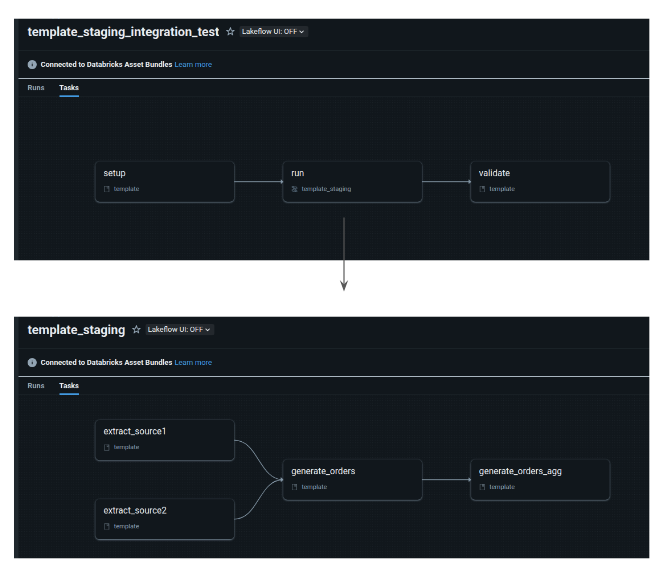
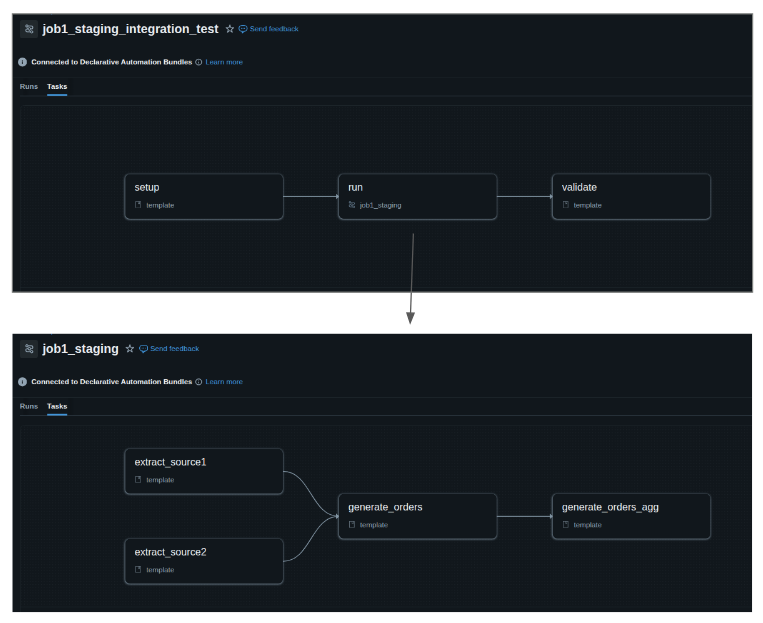
service principal grants and docs

diff --git a/README.md b/README.md
@@ -90,25 +90,28 @@ databricks-template/
 │       ├── config.py              # Configuration management
 │       ├── baseTask.py            # Base class for all tasks
 │       ├── commonSchemas.py       # Shared PySpark schemas
-│       └── job1/                  # Job-specific tasks
-│           ├── extract_source1.py
-│           ├── extract_source2.py
-│           ├── generate_orders.py
-│           ├── generate_orders_agg.py
-│           ├── integration_setup.py
-│           └── integration_validate.py
+│       ├── job1/                  # Job-specific tasks
+│       │   ├── extract_source1.py
+│       │   ├── extract_source2.py
+│       │   ├── generate_orders.py
+│       │   ├── generate_orders_agg.py
+│       │   ├── integration_setup.py
+│       │   └── integration_validate.py
+│       └── job2/                  # Additional job tasks
 │
 ├── tests/                          # Unit tests
-│   └── job1/
-│       └── unit_test.py            # Pytest unit tests
+│   ├── job1/
+│   │   └── unit_test.py            # Pytest unit tests
+│   └── job2/
 │
 ├── resources/                      # Databricks workflow templates
 │   └── jobs.yml                    # Generated job definition (auto-created)
 │
-├── scripts/                           # Helper scripts
-│   ├── generate_template_workflow.py  # Workflow generator (Jinja2)
-│   ├── sdk_analyze_job_costs.py       # Cost analysis script
-│   └── sdk_workspace_and_account.py   # Workspace and account management
+├── scripts/                              # Helper scripts
+│   ├── sdk_generate_template_job.py      # Job definition generator (Databricks SDK)
+│   ├── sdk_init.py                       # Workspace initialization
+│   ├── sdk_analyze_job_costs.py          # Cost analysis script
+│   └── sdk_workspace_and_account.py      # Workspace and account management
 │
 ├── docs/                           # Documentation assets
 │   ├── dag.png
@@ -171,25 +174,45 @@ databricks-template/
 
 ## Instructions
 
+
 1) Create a workspace. Use a [Databricks Free Edition](https://docs.databricks.com/aws/en/getting-started/free-edition) workspace.
 
 
 2) Install and configure Databricks CLI on your local machine. Check the current version on databricks.yaml. Follow instructions [here](https://docs.databricks.com/en/dev-tools/cli/install.html). 
 
 
-3) Build Python env, execute unit tests on your local machine and create service principal for staging and prod envs.
+3) Build Python env, execute unit tests on your local machine.
 
-        make sync & make test & make create-sp
+        make sync & make test
+        
+4) Create an external location in Databricks and update the "storage-root" parameter in the Makefile. This step will create the catalogs, schemas, service principal, and the required grants. For more details, see: Overview of external locations[https://docs.databricks.com/aws/en/connect/unity-catalog/cloud-storage#external-locations] Then run:
 
+        make init
 
-4) Deploy and execute on the dev workspace.
+5) Generate a secret for the service principal. In Databricks, go to: Workspace -> Settings -> Identity and access -> Service principals -> Secrets. Generate a new secret for your service principal and update the corresponding profiles in your .databrickscfg file. Your configuration should look similar to this:
+
+        [dev]
+        host             = https://xxxx.cloud.databricks.com/
+        token            = bbbbbbbbbbbbbbbbbbbbbbbbbbbbbbbbbbbb
+                        
+        [staging]
+        host          = https://xxxx.cloud.databricks.com/
+        client_id     = yyyyyyyy-yyyy-yyyy-yyyy-yyyyyyyyyyyy
+        client_secret = aaaaaaaaaaaaaaaaaaaaaaaaaaaaaaaaaaaa
+
+        [prod]
+        host          = https://xxxx.cloud.databricks.com/
+        client_id     = yyyyyyyy-yyyy-yyyy-yyyy-yyyyyyyyyyyy
+        client_secret = aaaaaaaaaaaaaaaaaaaaaaaaaaaaaaaaaaaa
+
+6) Deploy and execute on the dev workspace.
 
         make deploy env=dev
 
 
-5) configure CI/CD automation. Configure [Github Actions repository secrets](https://docs.github.com/en/actions/security-guides/using-secrets-in-github-actions) (DATABRICKS_HOST and DATABRICKS_TOKEN).
+7) Configure CI/CD automation. Configure [Github Actions repository secrets](https://docs.github.com/en/actions/security-guides/using-secrets-in-github-actions) (DATABRICKS_HOST, DATABRICKS_PRINCIPAL_ID, DATABRICKS_SECRET).
 
-6) You can also execute unit tests from your preferred IDE. Here's a screenshot from [VS Code](https://code.visualstudio.com/) with [Microsoft's Python extension](https://marketplace.visualstudio.com/items?itemName=ms-python.python) installed.
+8) You can also execute unit tests from your preferred IDE. Here's a screenshot from [VS Code](https://code.visualstudio.com/) with [Microsoft's Python extension](https://marketplace.visualstudio.com/items?itemName=ms-python.python) installed.
 
 - <img src="docs/vscode.png">
 